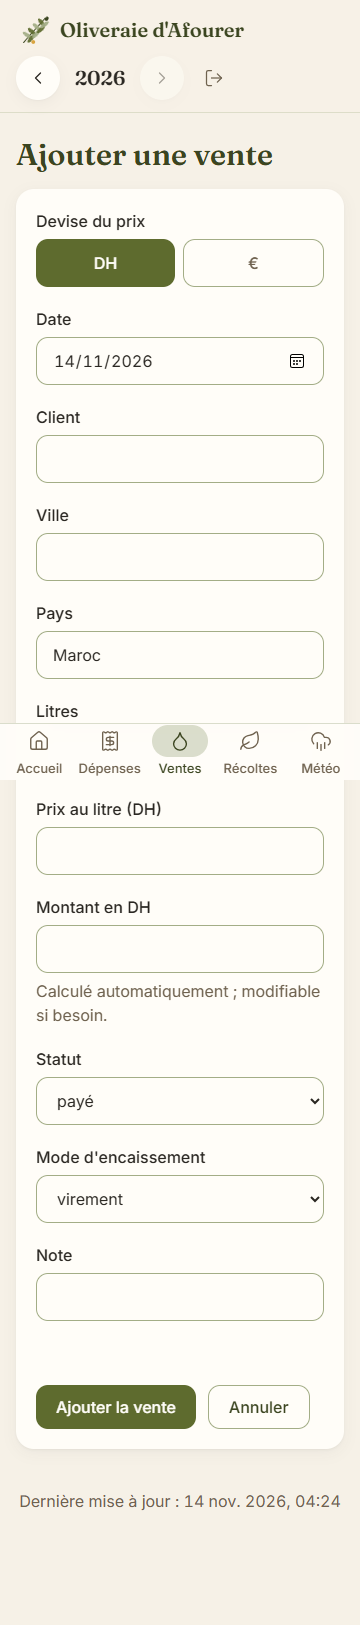
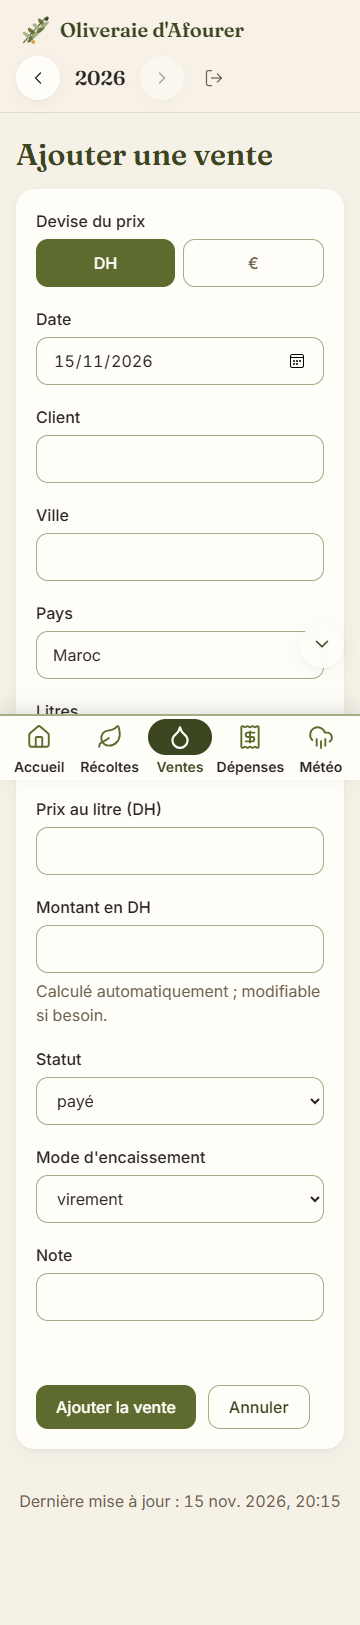
Accueil : carte récolte en tête avec pictos, menu du bas plus visible et réordonné, fiche terrain

diff --git a/src/app/(app)/page.tsx b/src/app/(app)/page.tsx
@@ -1,8 +1,9 @@
 import Link from "next/link";
-import { Leaf, ShieldCheck, TrendingDown, TrendingUp } from "lucide-react";
+import { Leaf, ShieldCheck, TrendingDown, TrendingUp, Weight } from "lucide-react";
 import { BarreProportion, Carte, CarteChiffre } from "@/components/ui";
 import { BoutonPartage } from "@/components/BoutonPartage";
-import { Goutte, Paysage } from "@/components/Illustrations";
+import { BouteilleHuile, Goutte, Paysage } from "@/components/Illustrations";
+import { SyntheseTerrain } from "@/components/SyntheseTerrain";
 import { HistogrammeMensuel } from "@/components/HistogrammeMensuel";
 import { ANNEE_DEBUT_ACCUEIL, lireAnnee, type ParamsPage } from "@/lib/annee";
 import { getRole } from "@/lib/auth/server";
@@ -39,8 +40,51 @@ export default async function Page({ searchParams }: { searchParams: ParamsPage 
         <div className="relative bg-gradient-to-r from-creme via-creme/85 to-transparent p-6 sm:p-8">
           <p className="text-base text-pierre">Bilan de l&apos;année</p>
           <h1 className="font-titre text-4xl font-semibold text-olive-fonce">{annee}</h1>
+          <div className="mt-2">
+            <SyntheseTerrain nbOliviers={d.parametres.nb_oliviers} variante="discret" />
+          </div>
         </div>
       </div>
+
+      <Carte>
+        <div className="flex items-center justify-between">
+          <h2 className="font-titre text-xl font-semibold">Dernière récolte</h2>
+          <Leaf size={22} strokeWidth={1.5} className="text-olive" aria-hidden />
+        </div>
+        {derniere && derniere.kg !== null ? (
+          <div className="mt-3">
+            <p className="text-pierre">Récolte {derniere.annee}</p>
+            <div className="mt-2 grid grid-cols-2 gap-4">
+              <div className="flex flex-col gap-1">
+                <Weight size={30} strokeWidth={1.5} className="shrink-0 text-olive" aria-hidden />
+                <p className="font-titre whitespace-nowrap text-2xl font-semibold text-olive sm:text-3xl">
+                  {formatKg(derniere.kg)}
+                </p>
+              </div>
+              {derniere.litres !== null ? (
+                <div className="flex flex-col gap-1">
+                  <BouteilleHuile taille={32} className="shrink-0 text-olive" />
+                  <p className="font-titre whitespace-nowrap text-2xl font-semibold text-olive sm:text-3xl">
+                    {formatLitres(derniere.litres)}
+                  </p>
+                </div>
+              ) : (
+                <p className="self-center text-pierre">Huile : non renseignée</p>
+              )}
+            </div>
+            {derniere.rendementPct !== null ? (
+              <p className="mt-3 text-pierre">Rendement {formatPct(derniere.rendementPct)}</p>
+            ) : null}
+            {derniere.ecartKg !== null ? (
+              <p className={derniere.ecartKg >= 0 ? "text-olive" : "text-argile-texte"}>
+                {formatEcart(derniere.ecartKg, "kg")} vs {derniere.annee - 1}
+              </p>
+            ) : null}
+          </div>
+        ) : (
+          <p className="mt-3 text-pierre">Aucune récolte enregistrée.</p>
+        )}
+      </Carte>
 
       <div className="grid gap-4 lg:grid-cols-3">
         <CarteChiffre
@@ -97,35 +141,6 @@ export default async function Page({ searchParams }: { searchParams: ParamsPage 
         </Carte>
 
         <div className="space-y-4">
-          <Carte>
-            <div className="flex items-center justify-between">
-              <h2 className="font-titre text-xl font-semibold">Dernière récolte</h2>
-              <Leaf size={22} strokeWidth={1.5} className="text-olive" aria-hidden />
-            </div>
-            {derniere && derniere.kg !== null ? (
-              <div className="mt-3 space-y-1">
-                <p className="text-pierre">Récolte {derniere.annee}</p>
-                <p className="font-titre flex flex-wrap items-baseline gap-x-4 text-3xl font-semibold text-olive">
-                  <span>{formatKg(derniere.kg)}</span>
-                  {derniere.litres !== null ? <span>{formatLitres(derniere.litres)}</span> : null}
-                </p>
-                {derniere.litres === null ? (
-                  <p className="text-pierre">Huile : non renseignée</p>
-                ) : null}
-                {derniere.rendementPct !== null ? (
-                  <p className="text-pierre">Rendement {formatPct(derniere.rendementPct)}</p>
-                ) : null}
-                {derniere.ecartKg !== null ? (
-                  <p className={derniere.ecartKg >= 0 ? "text-olive" : "text-argile-texte"}>
-                    {formatEcart(derniere.ecartKg, "kg")} vs {derniere.annee - 1}
-                  </p>
-                ) : null}
-              </div>
-            ) : (
-              <p className="mt-3 text-pierre">Aucune récolte enregistrée.</p>
-            )}
-          </Carte>
-
           <Carte>
             <div className="flex items-center gap-3">
               <Goutte />

diff --git a/src/components/Navigation.tsx b/src/components/Navigation.tsx
@@ -13,9 +13,9 @@ type Entree = {
 
 const ENTREES: Entree[] = [
   { href: "/", libelle: "Accueil", Icone: House },
-  { href: "/depenses", libelle: "Dépenses", Icone: Receipt },
-  { href: "/ventes", libelle: "Ventes", Icone: Droplet },
   { href: "/recoltes", libelle: "Récoltes", Icone: Leaf },
+  { href: "/ventes", libelle: "Ventes", Icone: Droplet },
+  { href: "/depenses", libelle: "Dépenses", Icone: Receipt },
   { href: "/meteo", libelle: "Météo", Icone: CloudRain },
 ];
 
@@ -39,7 +39,7 @@ export function BarreOnglets() {
   return (
     <nav
       aria-label="Navigation principale"
-      className="fixed inset-x-0 bottom-0 z-30 border-t border-sauge/40 bg-creme/95 pb-[env(safe-area-inset-bottom)] backdrop-blur lg:hidden"
+      className="fixed inset-x-0 bottom-0 z-30 border-t-2 border-sauge bg-creme pb-[env(safe-area-inset-bottom)] shadow-[0_-6px_18px_rgba(42,39,34,0.12)] lg:hidden"
     >
       <ul className="mx-auto flex max-w-xl justify-between px-1">
         {ENTREES.map(({ href, libelle, Icone }) => (
@@ -47,14 +47,14 @@ export function BarreOnglets() {
             <Link
               href={`${href}${suffixe}`}
               aria-current={actif(href) ? "page" : undefined}
-              className={`flex min-h-14 flex-col items-center justify-center gap-0.5 rounded-xl text-[0.8125rem] font-medium ${
-                actif(href) ? "text-olive-fonce" : "text-pierre"
+              className={`flex min-h-16 flex-col items-center justify-center gap-0.5 rounded-xl text-sm font-semibold ${
+                actif(href) ? "text-olive-fonce" : "text-encre"
               }`}
             >
               <span
-                className={`flex h-8 w-14 items-center justify-center rounded-full ${actif(href) ? "bg-sauge/40" : ""}`}
+                className={`flex h-9 w-16 items-center justify-center rounded-full ${actif(href) ? "bg-olive-fonce text-creme" : "text-olive"}`}
               >
-                <Icone size={22} strokeWidth={1.5} />
+                <Icone size={26} strokeWidth={actif(href) ? 2 : 1.75} />
               </span>
               {libelle}
             </Link>

diff --git a/src/components/SyntheseTerrain.tsx b/src/components/SyntheseTerrain.tsx
@@ -1,0 +1,42 @@
+import { Ruler, TreeDeciduous, Sprout } from "lucide-react";
+import { SUPERFICIE_HA, VARIETE } from "@/lib/terrain";
+
+/** Rappel du terrain : superficie, nombre d'oliviers, variété. */
+export function SyntheseTerrain({
+  nbOliviers,
+  variante = "carte",
+}: {
+  nbOliviers: number;
+  variante?: "carte" | "discret";
+}) {
+  const elements = [
+    { Icone: Ruler, texte: `${SUPERFICIE_HA.toLocaleString("fr-FR", { minimumFractionDigits: 1 })} hectares` },
+    { Icone: TreeDeciduous, texte: `${nbOliviers} oliviers` },
+    { Icone: Sprout, texte: VARIETE },
+  ];
+  if (variante === "discret") {
+    return (
+      <p className="flex flex-wrap items-center gap-x-3 gap-y-1 text-sm text-pierre">
+        {elements.map(({ Icone, texte }) => (
+          <span key={texte} className="inline-flex items-center gap-1">
+            <Icone size={14} strokeWidth={1.5} aria-hidden="true" />
+            {texte}
+          </span>
+        ))}
+      </p>
+    );
+  }
+  return (
+    <ul
+      aria-label="Notre terrain"
+      className="flex flex-wrap gap-2 rounded-carte bg-sauge/25 p-3 text-base text-olive-fonce"
+    >
+      {elements.map(({ Icone, texte }) => (
+        <li key={texte} className="inline-flex min-h-9 items-center gap-2 rounded-full bg-creme px-3">
+          <Icone size={18} strokeWidth={1.5} className="text-olive" aria-hidden="true" />
+          {texte}
+        </li>
+      ))}
+    </ul>
+  );
+}

diff --git a/src/app/(app)/recoltes/page.tsx b/src/app/(app)/recoltes/page.tsx
@@ -3,6 +3,7 @@ import { Trophy } from "lucide-react";
 import { Badge, Carte, CarteChiffre, EtatVide } from "@/components/ui";
 import { BandeauSucces } from "@/components/BandeauSucces";
 import { BoutonAjout } from "@/components/BoutonAjout";
+import { SyntheseTerrain } from "@/components/SyntheseTerrain";
 import { HistogrammeRecoltes } from "@/components/HistogrammeRecoltes";
 import { lireAnnee, type ParamsPage } from "@/lib/annee";
 import { getRole } from "@/lib/auth/server";
@@ -49,6 +50,8 @@ export default async function Page({ searchParams }: { searchParams: ParamsPage 
           <BoutonAjout href="/recoltes/nouvelle" libelle="Ajouter ou corriger une année" />
         ) : null}
       </div>
+
+      <SyntheseTerrain nbOliviers={d.parametres.nb_oliviers} />
 
       <div className="grid gap-4 sm:grid-cols-2 lg:grid-cols-4">
         <CarteChiffre

diff --git a/src/components/Illustrations.tsx b/src/components/Illustrations.tsx
@@ -111,3 +111,31 @@ export function SoleilNuage({ taille = 32 }: { taille?: number }) {
     </svg>
   );
 }
+
+/** Petite bouteille d'huile d'olive (pictogramme des litres). */
+export function BouteilleHuile({
+  taille = 28,
+  className = "",
+}: {
+  taille?: number;
+  className?: string;
+}) {
+  return (
+    <svg
+      width={taille}
+      height={taille}
+      viewBox="0 0 32 32"
+      fill="none"
+      stroke="currentColor"
+      strokeWidth="1.7"
+      strokeLinecap="round"
+      strokeLinejoin="round"
+      aria-hidden="true"
+      className={className}
+    >
+      <path d="M13 3h6v4l-1 2.5v3.2c2.6 1.1 4 3.3 4 6.3V27a2 2 0 0 1-2 2h-8a2 2 0 0 1-2-2v-8c0-3 1.4-5.2 4-6.3V9.5L13 7V3Z" />
+      <path d="M10 20h12" />
+      <path d="M16 22.4c-1 1.3-1.6 2-1.6 2.9a1.6 1.6 0 0 0 3.2 0c0-.9-.6-1.6-1.6-2.9Z" />
+    </svg>
+  );
+}

diff --git a/src/components/IndiceDefilement.tsx b/src/components/IndiceDefilement.tsx
@@ -31,7 +31,7 @@ export function IndiceDefilement() {
       type="button"
       aria-label="Faire défiler vers le bas"
       onClick={() => window.scrollBy({ top: window.innerHeight * 0.8, behavior: "smooth" })}
-      className="fixed bottom-24 right-4 z-10 flex h-11 w-11 items-center justify-center rounded-full bg-creme/90 text-olive-fonce shadow-carte backdrop-blur lg:bottom-6"
+      className="fixed bottom-28 right-4 z-10 flex h-11 w-11 items-center justify-center rounded-full bg-creme/90 text-olive-fonce shadow-carte backdrop-blur lg:bottom-6"
     >
       <ChevronDown size={22} strokeWidth={1.75} className="anim-rebond" aria-hidden="true" />
     </button>

diff --git a/src/lib/terrain.ts b/src/lib/terrain.ts
@@ -1,0 +1,3 @@
+/** Fiche du terrain (rappel affiché en haut de l'accueil et de l'écran Récoltes). */
+export const SUPERFICIE_HA = 1.6;
+export const VARIETE = "Picholine marocaine";

diff --git a/DECISIONS.md b/DECISIONS.md
@@ -18,3 +18,7 @@
 - Récap partageable : image PNG 1080×1350 générée par next/og avec Fraunces et Inter (paquets @fontsource lus dans node_modules, inclus au déploiement via outputFileTracingIncludes). Partage natif (Web Share avec fichier) avec repli téléchargement.
 - PWA : service worker écrit à la main (public/sw.js), pas de plugin. Pages en réseau d'abord, repli sur la dernière version consultée ; la mention « Dernière mise à jour » est écrite dans la page elle-même (donc conservée dans la copie hors connexion). La déconnexion efface le cache de pages. Icônes générées par `npm run icones` (sharp).
 - Revue qualité (T20) : axe-core (WCAG 2.1 AA), cibles ≥ 44 px et absence de défilement horizontal vérifiés à 360 et 1280 px sur tous les écrans (`CAPTURES=1 PW_DATA_DIR=.data-local npx playwright test e2e/qualite.spec.ts`) ; ajout d'un jeton argile-texte (#9A4423) pour le texte sur fond sable, car #B4532A n'atteint pas 4,5:1 ; étiquettes d'axe une sur deux en mobile.
+
+## Modifications après les premiers essais (15 nov. 2026)
+- Fiche du terrain (1,6 ha, Picholine marocaine) en constantes dans `src/lib/terrain.ts` ; le nombre d'oliviers vient de `Parametres.nb_oliviers`. Affichée en haut de l'accueil (petite, 14 px à la demande de Mhend, en dessous du minimum de 16 px du cahier des charges) et en haut de Récoltes.
+- Menu : ordre Accueil / Récoltes / Ventes / Dépenses / Météo ; barre du bas plus contrastée (fond plein, ombre, pastille foncée sur l'onglet actif).
